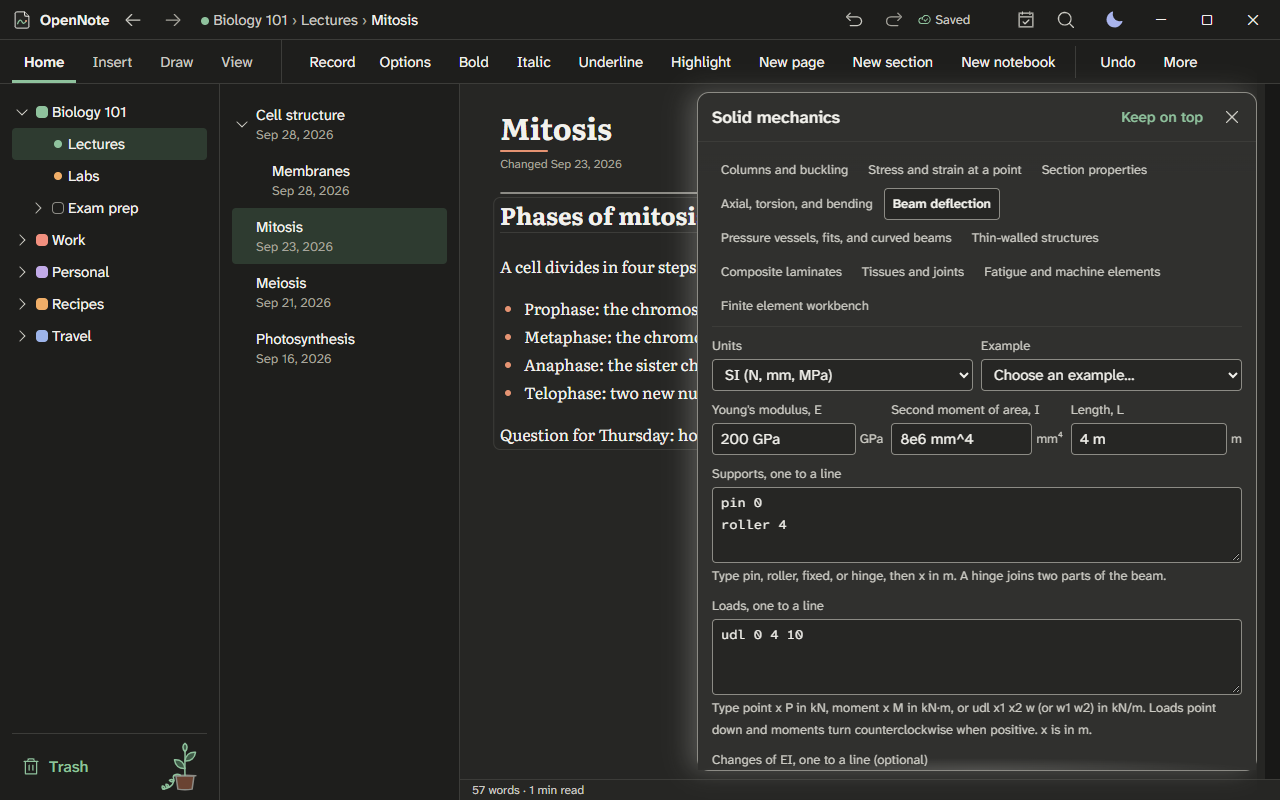
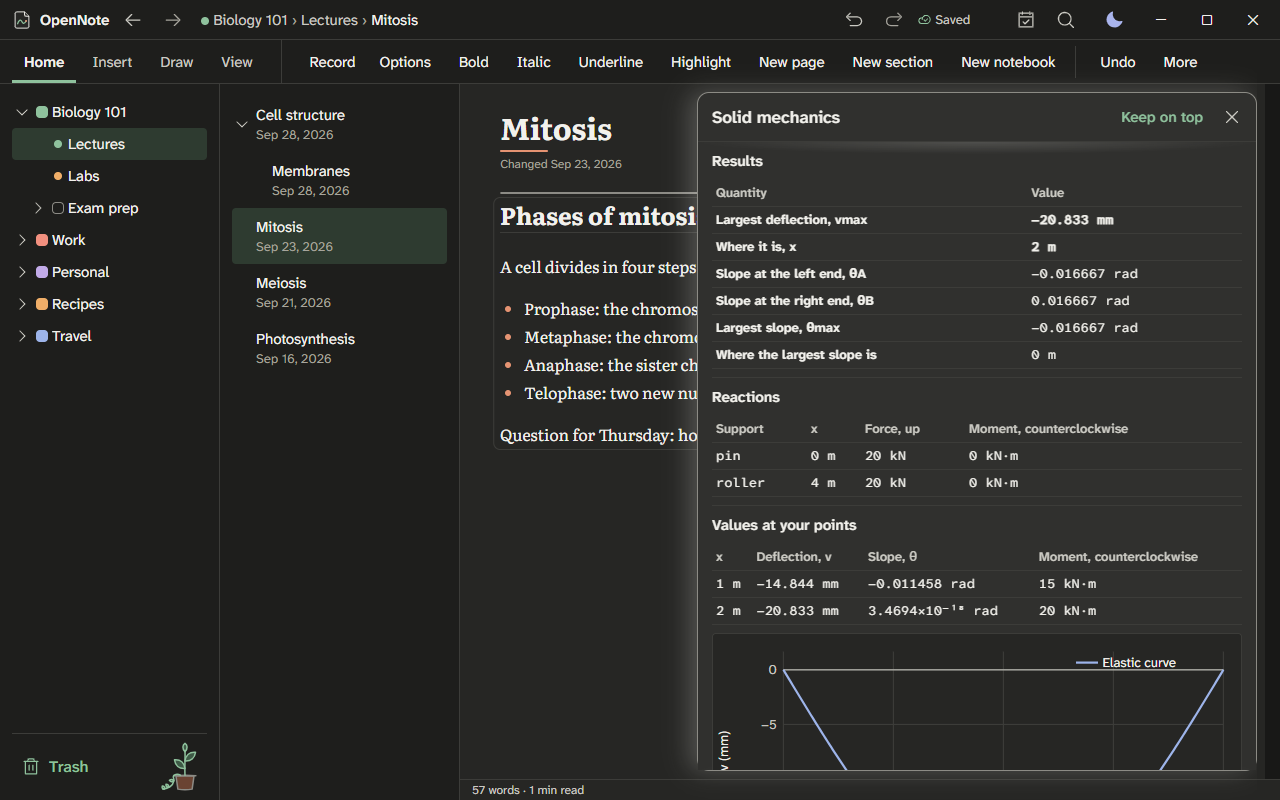
Add real Beta 8 pictures of the engineering and science kits
Writes the g3 capture scenes (each opens the real kit window from the palette over a typed page, picks the tool, and scrolls to the worked example's results or figure) and retakes the first 15 pictures in the light and dark themes. The old beta 4 style form-only shots are replaced by filled examples: a Rankine cycle, a meshed plate, a title-blocked drafting sheet, a traced pointer program, and more.

Changed region(s): [[0.5625, 0.1875, 0.9688, 0.9688], [0.8438, 0.8125, 0.9375, 0.8438]]

diff --git a/tests/ui/docscap/scenes/g3.ts b/tests/ui/docscap/scenes/g3.ts
@@ -1,4 +1,260 @@
 // Capture scenes of group g3 (see docs/tools/screens.json for the names, categories, and captions).
+// Each one opens the real kit window from the palette over a typed page, picks a tool, and shows a worked example.
+import type { Locator, Page } from '@playwright/test';
 import type { Helpers, Scene } from '../more';
 
-export const scenes: (h: Helpers) => Scene[] = () => [];
+interface Kit {
+  /** What the palette needs: the command title. */
+  command: string | RegExp;
+  /** What to type in the palette when the command is a pattern. */
+  query?: string;
+  /** The window's accessible name. */
+  window: string;
+  /** A tab to click, when the kit uses tabs. */
+  tab?: string;
+  /** Options to pick in the window's lists, in order (the Tool or Topic list, then the Calculation list). */
+  pick?: string[];
+  /** Runs once the tool shows, to fill in a worked example. */
+  after?: (d: Locator, p: Page) => Promise<void>;
+  /** Scrolls the window so this element is at the top, to show the results and the picture below the form. */
+  scroll?: (d: Locator) => Locator;
+}
+
+const ABC = ['X:1', 'T:Twinkle', 'M:4/4', 'L:1/4', 'Q:1/4=100', 'K:C', 'CCGG|AAG2|FFEE|DDC2|'].join(
+  String.fromCharCode(10),
+);
+
+export const scenes: (h: Helpers) => Scene[] = (h) => {
+  const results = (d: Locator) => d.getByText('Results', { exact: true });
+  const kit = (name: string, k: Kit, viewport?: Scene['viewport']): Scene => ({
+    name,
+    viewport: process.env.G3_TALL ? { width: 1280, height: 2600 } : viewport,
+    run: async (p) => {
+      await h.typeNotes(p);
+      await h.command(p, k.query ?? String(k.command), k.command);
+      const d = p.getByRole('dialog', { name: k.window, exact: true });
+      await d.waitFor({ timeout: 20_000 });
+      await p.waitForTimeout(1500);
+      if (k.tab) await d.getByRole('tab', { name: k.tab, exact: true }).click();
+      for (const [i, option] of (k.pick ?? []).entries()) {
+        await d.locator('select').nth(i).selectOption({ label: option });
+        await p.waitForTimeout(600);
+      }
+      await k.after?.(d, p);
+      if (k.scroll)
+        await k
+          .scroll(d)
+          .first()
+          .evaluate((e) => e.scrollIntoView({ block: 'start' }));
+      await p.waitForTimeout(800);
+    },
+  });
+
+  return [
+    kit('kit-thermo', { command: 'Open the thermodynamics kit', window: 'Thermodynamics kit', tab: 'Steam' }),
+    kit('kit-thermo-cycles', {
+      command: 'Open the thermodynamics kit',
+      window: 'Thermodynamics kit',
+      tab: 'Cycles',
+      after: async (d, p) => {
+        await d.getByLabel('Turbine isentropic efficiency').fill('85');
+        await d.getByLabel('Pump isentropic efficiency').fill('80');
+        await p.waitForTimeout(800);
+      },
+      scroll: results,
+    }),
+    kit('kit-fluid-heat', {
+      command: 'Open the fluid mechanics and heat transfer tools',
+      window: 'Fluids and heat transfer',
+      tab: 'Pipe flow and pumps',
+      scroll: results,
+    }),
+    kit('kit-aerospace', { command: 'Open the aerospace tools', window: 'Aerospace', tab: 'Atmosphere' }),
+    kit('kit-solids-fem', {
+      command: 'Open the solid mechanics tools',
+      window: 'Solid mechanics',
+      tab: 'Finite element workbench',
+      after: async (d, p) => {
+        await d.getByLabel('Problem').selectOption({ label: 'Plate in plane stress' });
+        await p.waitForTimeout(500);
+        await d
+          .locator('select')
+          .filter({ has: p.locator('option', { hasText: 'Clamped' }) })
+          .selectOption({ label: 'Clamped' });
+        await d
+          .locator('select')
+          .filter({ has: p.locator('option', { hasText: 'Shear force' }) })
+          .selectOption({ label: 'Shear force' });
+        await p.waitForTimeout(1500);
+      },
+      scroll: (d) => d.getByRole('img').first(),
+    }),
+    kit('kit-mechanisms', {
+      command: 'Open the mechanisms and dynamics kit',
+      window: 'Mechanisms and dynamics',
+      tab: 'Linkages',
+      scroll: (d) => d.getByText('Toggle positions of the output'),
+    }),
+    kit('kit-control', {
+      command: 'Open the dynamics and control tools',
+      window: 'Dynamics and control',
+      tab: 'Bode and Nyquist',
+      scroll: (d) => d.getByRole('row', { name: /^Gain crossover/ }),
+    }),
+    kit('kit-circuits', {
+      command: 'Open the circuits and energy tools',
+      window: 'Circuits and energy',
+      tab: 'Simulator',
+      scroll: results,
+    }),
+    kit('kit-engineering-math', {
+      command: 'Open the engineering mathematics tools',
+      window: 'Engineering mathematics',
+      tab: 'Linear algebra workbench',
+    }),
+    kit('kit-civil', {
+      command: /^Civil and chemical engineering$/,
+      query: 'civil and chem',
+      window: 'Civil and chemical engineering',
+      pick: ['Hydrology and open channels'],
+    }),
+    kit('kit-design', {
+      command: 'Open the design tools',
+      window: 'Design tools',
+      tab: 'Drafting sheet',
+      after: async (d, p) => {
+        const field = (label: string, value: string) => d.getByLabel(label, { exact: true }).first().fill(value);
+        await field('Title', 'Bracket, 6 mm plate');
+        await field('Drawn by', 'A. Rivera');
+        await field('Date', '2026-09-30');
+        await field('Material', 'Aluminum 6061');
+        const add = async (shape: string, values: Record<string, string>) => {
+          await d
+            .locator('select')
+            .filter({ has: p.locator('option', { hasText: 'Rectangle' }) })
+            .selectOption({ label: shape });
+          for (const [label, value] of Object.entries(values)) await field(label, value);
+          await d.getByRole('button', { name: 'Add the shape' }).click();
+          await p.waitForTimeout(300);
+        };
+        await add('Rectangle', { 'From x': '60', 'From y': '50', 'To x': '200', 'To y': '150' });
+        await add('Circle', { 'Center x': '95', 'Center y': '100', Radius: '18' });
+        await add('Circle', { 'Center x': '165', 'Center y': '100', Radius: '18' });
+        await add('Line', { 'From x': '40', 'From y': '100', 'To x': '220', 'To y': '100' });
+      },
+      scroll: (d) => d.getByText(/^(Click the start of the line|Click one corner)/),
+    }),
+    kit('kit-design-code', {
+      command: 'Open the design tools',
+      window: 'Design tools',
+      tab: 'Memory and pointer tracer',
+      after: async (d, p) => {
+        await d.getByRole('button', { name: 'Run and trace' }).click();
+        const next = d.getByRole('button', { name: 'Next step' });
+        await next.waitFor();
+        for (let i = 0; i < 3; i += 1) await next.click();
+        await p.waitForTimeout(500);
+      },
+    }),
+    kit('kit-signals', {
+      command: 'Open signals and sound tools',
+      window: 'Signals and sound',
+      pick: ['Spectrum analyzer'],
+      scroll: (d) => d.getByText(/^Largest peak/),
+    }),
+    kit('kit-physics', {
+      command: 'Open physics tools',
+      window: 'Physics tools',
+      pick: ['Electric and magnetic fields'],
+      scroll: (d) => d.getByText('Assumptions and checks'),
+    }),
+    kit('kit-modern-physics', {
+      command: 'Open the modern physics and astronomy tools',
+      window: 'Modern physics and astronomy',
+      pick: ['Quantum wells, barriers, and wave packets'],
+    }),
+    kit('kit-chemistry', {
+      command: 'Open the chemistry calculators',
+      query: 'chemistry calc',
+      window: 'Chemistry calculators',
+    }),
+    kit('kit-chemistry-structure', {
+      command: 'Open the chemical structure drawer',
+      query: 'chemical structure',
+      window: 'Chemical structures',
+      after: async (d) => {
+        await d.getByLabel('Structure as SMILES text').fill('CC(=O)Oc1ccccc1C(=O)O');
+        await d.getByRole('img', { name: /Skeletal formula/ }).waitFor();
+        await d.getByLabel('Structure as SMILES text').blur();
+      },
+    }),
+    kit('kit-earth', {
+      command: 'Open the earth sciences kit',
+      window: 'Earth sciences',
+      pick: ['Atmospheric thermodynamics and soundings', 'Skew-T sounding'],
+      scroll: (d) => d.getByRole('row', { name: /^CAPE/ }),
+    }),
+    kit('kit-life-science', { command: 'Open life science tools', window: 'Life science tools', tab: 'Populations' }),
+    kit('kit-biology', { command: 'Open the biology tools', window: 'Biology tools', tab: 'Sequences' }),
+    kit('kit-statistics', {
+      command: 'Open the statistics kit',
+      window: 'Statistics: inference and design',
+      tab: 'Describe',
+    }),
+    kit('kit-stat-models', {
+      command: 'Open the statistical models tools',
+      window: 'Statistical models',
+      tab: 'Linear regression',
+      scroll: results,
+    }),
+    kit('kit-psychology', {
+      command: 'Open the psychology and behavior tools',
+      window: 'Psychology and behavior',
+      tab: 'Signal detection',
+      scroll: results,
+    }),
+    kit('kit-reasoning', { command: 'Open the reasoning kit', window: 'Reasoning kit', tab: 'Logic' }),
+    kit('kit-economics', {
+      command: 'Open economics and finance tools',
+      window: 'Economics and finance',
+      pick: ['Markets and welfare'],
+      scroll: (d) => d.getByText(/^Price 30/),
+    }),
+    kit('kit-humanities', {
+      command: 'Open the history, places, languages, and texts kit',
+      window: 'History, places, languages, and texts',
+      tab: 'Map maker',
+      scroll: (d) => d.getByRole('img').last(),
+    }),
+    kit('kit-music', {
+      command: 'Open the music, script, camera, and studio tools',
+      window: 'Music, script, camera, and studio tools',
+      tab: 'Theory',
+    }),
+    {
+      name: 'kit-music-score',
+      run: async (p) => {
+        await h.typeNotes(p);
+        await p.keyboard.press('Enter');
+        await h.command(
+          p,
+          'Open the music, script, camera, and studio tools',
+          'Open the music, script, camera, and studio tools',
+        );
+        const d = p.getByRole('dialog', { name: 'Music, script, camera, and studio tools', exact: true });
+        await d.waitFor({ timeout: 20_000 });
+        await d.getByRole('tab', { name: 'Score', exact: true }).click();
+        await d.getByLabel('Music in ABC notation').fill(ABC);
+        await p.waitForTimeout(1200);
+        await d.getByRole('button', { name: 'Picture', exact: true }).click();
+        await p.waitForTimeout(800);
+        await d.getByRole('button', { name: 'Close' }).click();
+        await p.keyboard.press('Escape');
+        await p.keyboard.press('ArrowDown');
+        await p.keyboard.press('ArrowDown');
+        await p.getByRole('img', { name: /./ }).last().scrollIntoViewIfNeeded();
+        await p.waitForTimeout(800);
+      },
+    },
+  ];
+};
